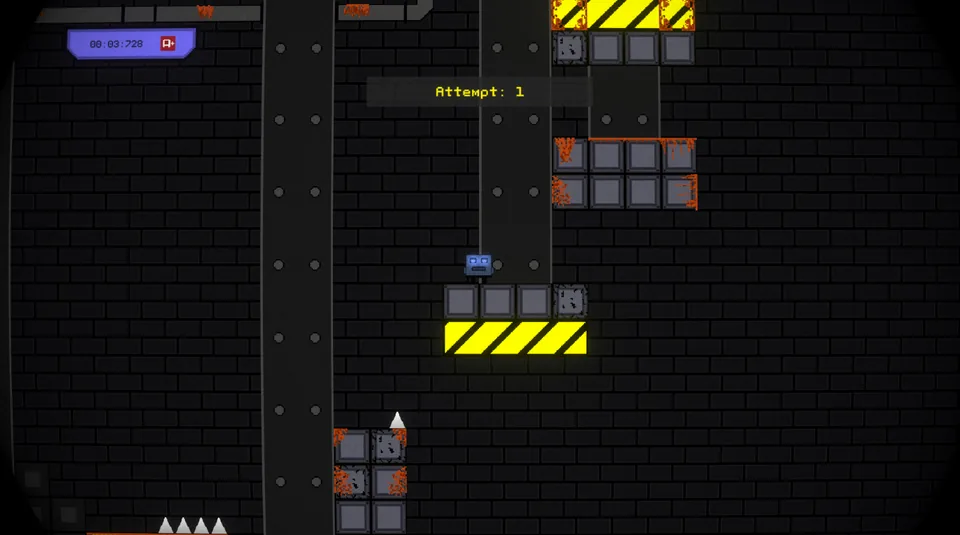
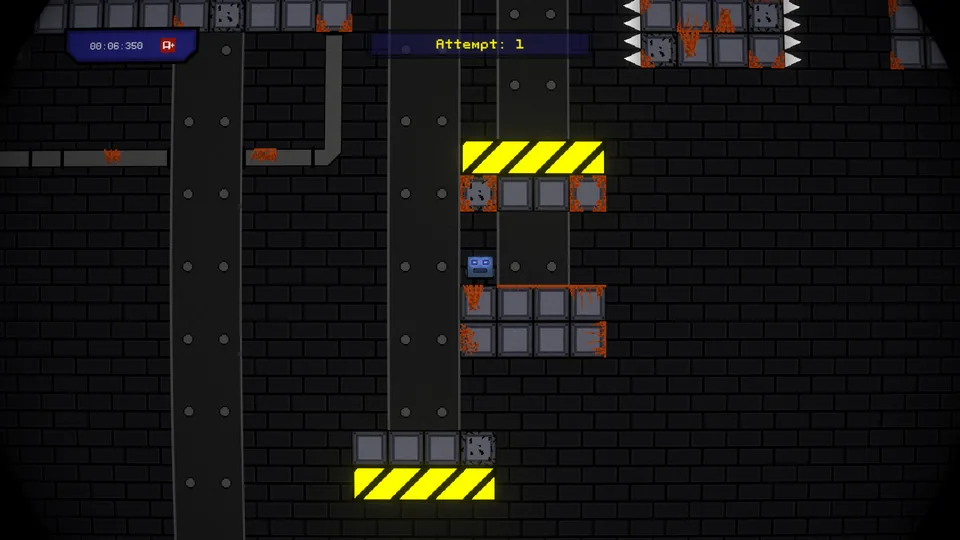
Replace Robot Mil screenshots with the v2.0 set
Six current screenshots in a 3x2 grid, with full-size versions for the
lightbox and alt text in English and Ukrainian.

diff --git a/index.html b/index.html
@@ -16,7 +16,7 @@
   <link rel="preconnect" href="https://fonts.googleapis.com">
   <link rel="preconnect" href="https://fonts.gstatic.com" crossorigin>
   <link rel="stylesheet" href="https://fonts.googleapis.com/css2?family=IBM+Plex+Mono:wght@400;500&family=Manrope:wght@400;500;600;700&family=Outfit:wght@400;500;600;700&display=swap">
-  <link rel="stylesheet" href="assets/css/site.css?v=ce4e3ff4">
+  <link rel="stylesheet" href="assets/css/site.css?v=4cdfe300">
   <link rel="preload" as="image" href="assets/intro/000.webp">
   <script>
     document.documentElement.classList.add("js");
@@ -34,7 +34,7 @@
       }
     })();
   </script>
-  <script src="assets/js/i18n.js?v=b3367caa" defer></script>
+  <script src="assets/js/i18n.js?v=f242259e" defer></script>
   <script src="assets/js/intro.js?v=69bf8e77" defer></script>
   <script src="assets/js/media.js?v=80236503" defer></script>
 </head>
@@ -148,11 +148,13 @@
           <li><h3 data-i18n="rm.f6.t">Level Maker</h3><p data-i18n="rm.f6.d">Build your own levels and share them through Steam Workshop.</p></li>
         </ul>
 
-        <ul class="shots" data-i18n-attr="aria-label:rm.shots" aria-label="Robot Mil screenshots, open to view full size">
-          <li><a class="shot" href="assets/img/robotmil-shot-1-full.webp" data-gallery="robot-mil"><img src="assets/img/robotmil-shot-1.webp" width="960" height="535" loading="lazy" data-i18n-attr="alt:rm.s1" alt="Dark industrial level with spiked blocks and hazard-striped platforms"></a></li>
-          <li><a class="shot" href="assets/img/robotmil-shot-2-full.webp" data-gallery="robot-mil"><img src="assets/img/robotmil-shot-2.webp" width="960" height="536" loading="lazy" data-i18n-attr="alt:rm.s2" alt="Mossy dungeon level lit by lamps, with rows of spikes"></a></li>
-          <li><a class="shot" href="assets/img/robotmil-shot-3-full.webp" data-gallery="robot-mil"><img src="assets/img/robotmil-shot-3.webp" width="960" height="534" loading="lazy" data-i18n-attr="alt:rm.s3" alt="Red laser chapter with vertical laser beams"></a></li>
-          <li><a class="shot" href="assets/img/robotmil-shot-4-full.webp" data-gallery="robot-mil"><img src="assets/img/robotmil-shot-4.webp" width="960" height="535" loading="lazy" data-i18n-attr="alt:rm.s4" alt="Red laser chapter with horizontal laser beams"></a></li>
+        <ul class="shots shots--3" data-i18n-attr="aria-label:rm.shots" aria-label="Robot Mil screenshots, open to view full size">
+          <li><a class="shot" href="assets/img/robotmil-shot-1-full.webp" data-gallery="robot-mil"><img src="assets/img/robotmil-shot-1.webp" width="960" height="540" loading="lazy" data-i18n-attr="alt:rm.s1" alt="Industrial level with hazard-striped platforms and spiked blocks"></a></li>
+          <li><a class="shot" href="assets/img/robotmil-shot-2-full.webp" data-gallery="robot-mil"><img src="assets/img/robotmil-shot-2.webp" width="960" height="540" loading="lazy" data-i18n-attr="alt:rm.s2" alt="Factory level with spiked walls, a row of spikes and a key to collect"></a></li>
+          <li><a class="shot" href="assets/img/robotmil-shot-3-full.webp" data-gallery="robot-mil"><img src="assets/img/robotmil-shot-3.webp" width="960" height="540" loading="lazy" data-i18n-attr="alt:rm.s3" alt="Mossy dungeon level lit by lamps, with rows of spikes and spinning blades"></a></li>
+          <li><a class="shot" href="assets/img/robotmil-shot-4-full.webp" data-gallery="robot-mil"><img src="assets/img/robotmil-shot-4.webp" width="960" height="540" loading="lazy" data-i18n-attr="alt:rm.s4" alt="Dark dungeon with falling spikes and a key to collect"></a></li>
+          <li><a class="shot" href="assets/img/robotmil-shot-5-full.webp" data-gallery="robot-mil"><img src="assets/img/robotmil-shot-5.webp" width="960" height="540" loading="lazy" data-i18n-attr="alt:rm.s5" alt="Red laser chapter with vertical laser beams"></a></li>
+          <li><a class="shot" href="assets/img/robotmil-shot-6-full.webp" data-gallery="robot-mil"><img src="assets/img/robotmil-shot-6.webp" width="960" height="540" loading="lazy" data-i18n-attr="alt:rm.s6" alt="Laser chapter with moving laser emitters and electric fields"></a></li>
         </ul>
       </div>
     </section>

diff --git a/assets/js/i18n.js b/assets/js/i18n.js
@@ -48,10 +48,12 @@
     "rm.f6.t": "Редактор рівнів",
     "rm.f6.d": "Створюйте власні рівні та діліться ними через Steam Workshop.",
     "rm.shots": "Скріншоти Robot Mil, відкриваються на весь екран",
-    "rm.s1": "Темний індустріальний рівень із шипованими блоками та смугастими платформами",
-    "rm.s2": "Порослий мохом підземний рівень, освітлений лампами, з рядами шипів",
-    "rm.s3": "Лазерний розділ із вертикальними променями",
-    "rm.s4": "Лазерний розділ із горизонтальними променями",
+    "rm.s1": "Індустріальний рівень зі смугастими платформами та шипованими блоками",
+    "rm.s2": "Заводський рівень із шипованими стінами, рядом шипів і ключем, який треба зібрати",
+    "rm.s3": "Порослий мохом підземний рівень, освітлений лампами, з рядами шипів і лезами, що обертаються",
+    "rm.s4": "Темне підземелля з падаючими шипами та ключем, який треба зібрати",
+    "rm.s5": "Червоний лазерний розділ із вертикальними променями",
+    "rm.s6": "Лазерний розділ із рухомими лазерами та електричними полями",
 
     "bv.keyAlt": "Арт Bullet Vendetta: стрілець у помаранчевій сорочці стріляє в бандитів на закривавленій вулиці, вид зверху",
     "bv.tag": "Шутер з видом зверху",

diff --git a/privacy.html b/privacy.html
@@ -12,7 +12,7 @@
   <link rel="preconnect" href="https://fonts.googleapis.com">
   <link rel="preconnect" href="https://fonts.gstatic.com" crossorigin>
   <link rel="stylesheet" href="https://fonts.googleapis.com/css2?family=IBM+Plex+Mono:wght@400;500&family=Manrope:wght@400;500;600;700&family=Outfit:wght@400;500;600;700&display=swap">
-  <link rel="stylesheet" href="assets/css/site.css?v=ce4e3ff4">
+  <link rel="stylesheet" href="assets/css/site.css?v=4cdfe300">
   <script>
     document.documentElement.classList.add("js");
     (function () {
@@ -29,7 +29,7 @@
       }
     })();
   </script>
-  <script src="assets/js/i18n.js?v=b3367caa" defer></script>
+  <script src="assets/js/i18n.js?v=f242259e" defer></script>
 </head>
 <body>
   <a class="skip" href="#main" data-i18n="skip">Skip to content</a>

diff --git a/assets/css/site.css b/assets/css/site.css
@@ -636,6 +636,10 @@ html[lang="uk"] [data-lang-block="en"] {
   list-style: none;
 }
 
+.shots--3 {
+  grid-template-columns: repeat(3, minmax(0, 1fr));
+}
+
 .shots img {
   width: 100%;
   aspect-ratio: 16 / 9;
